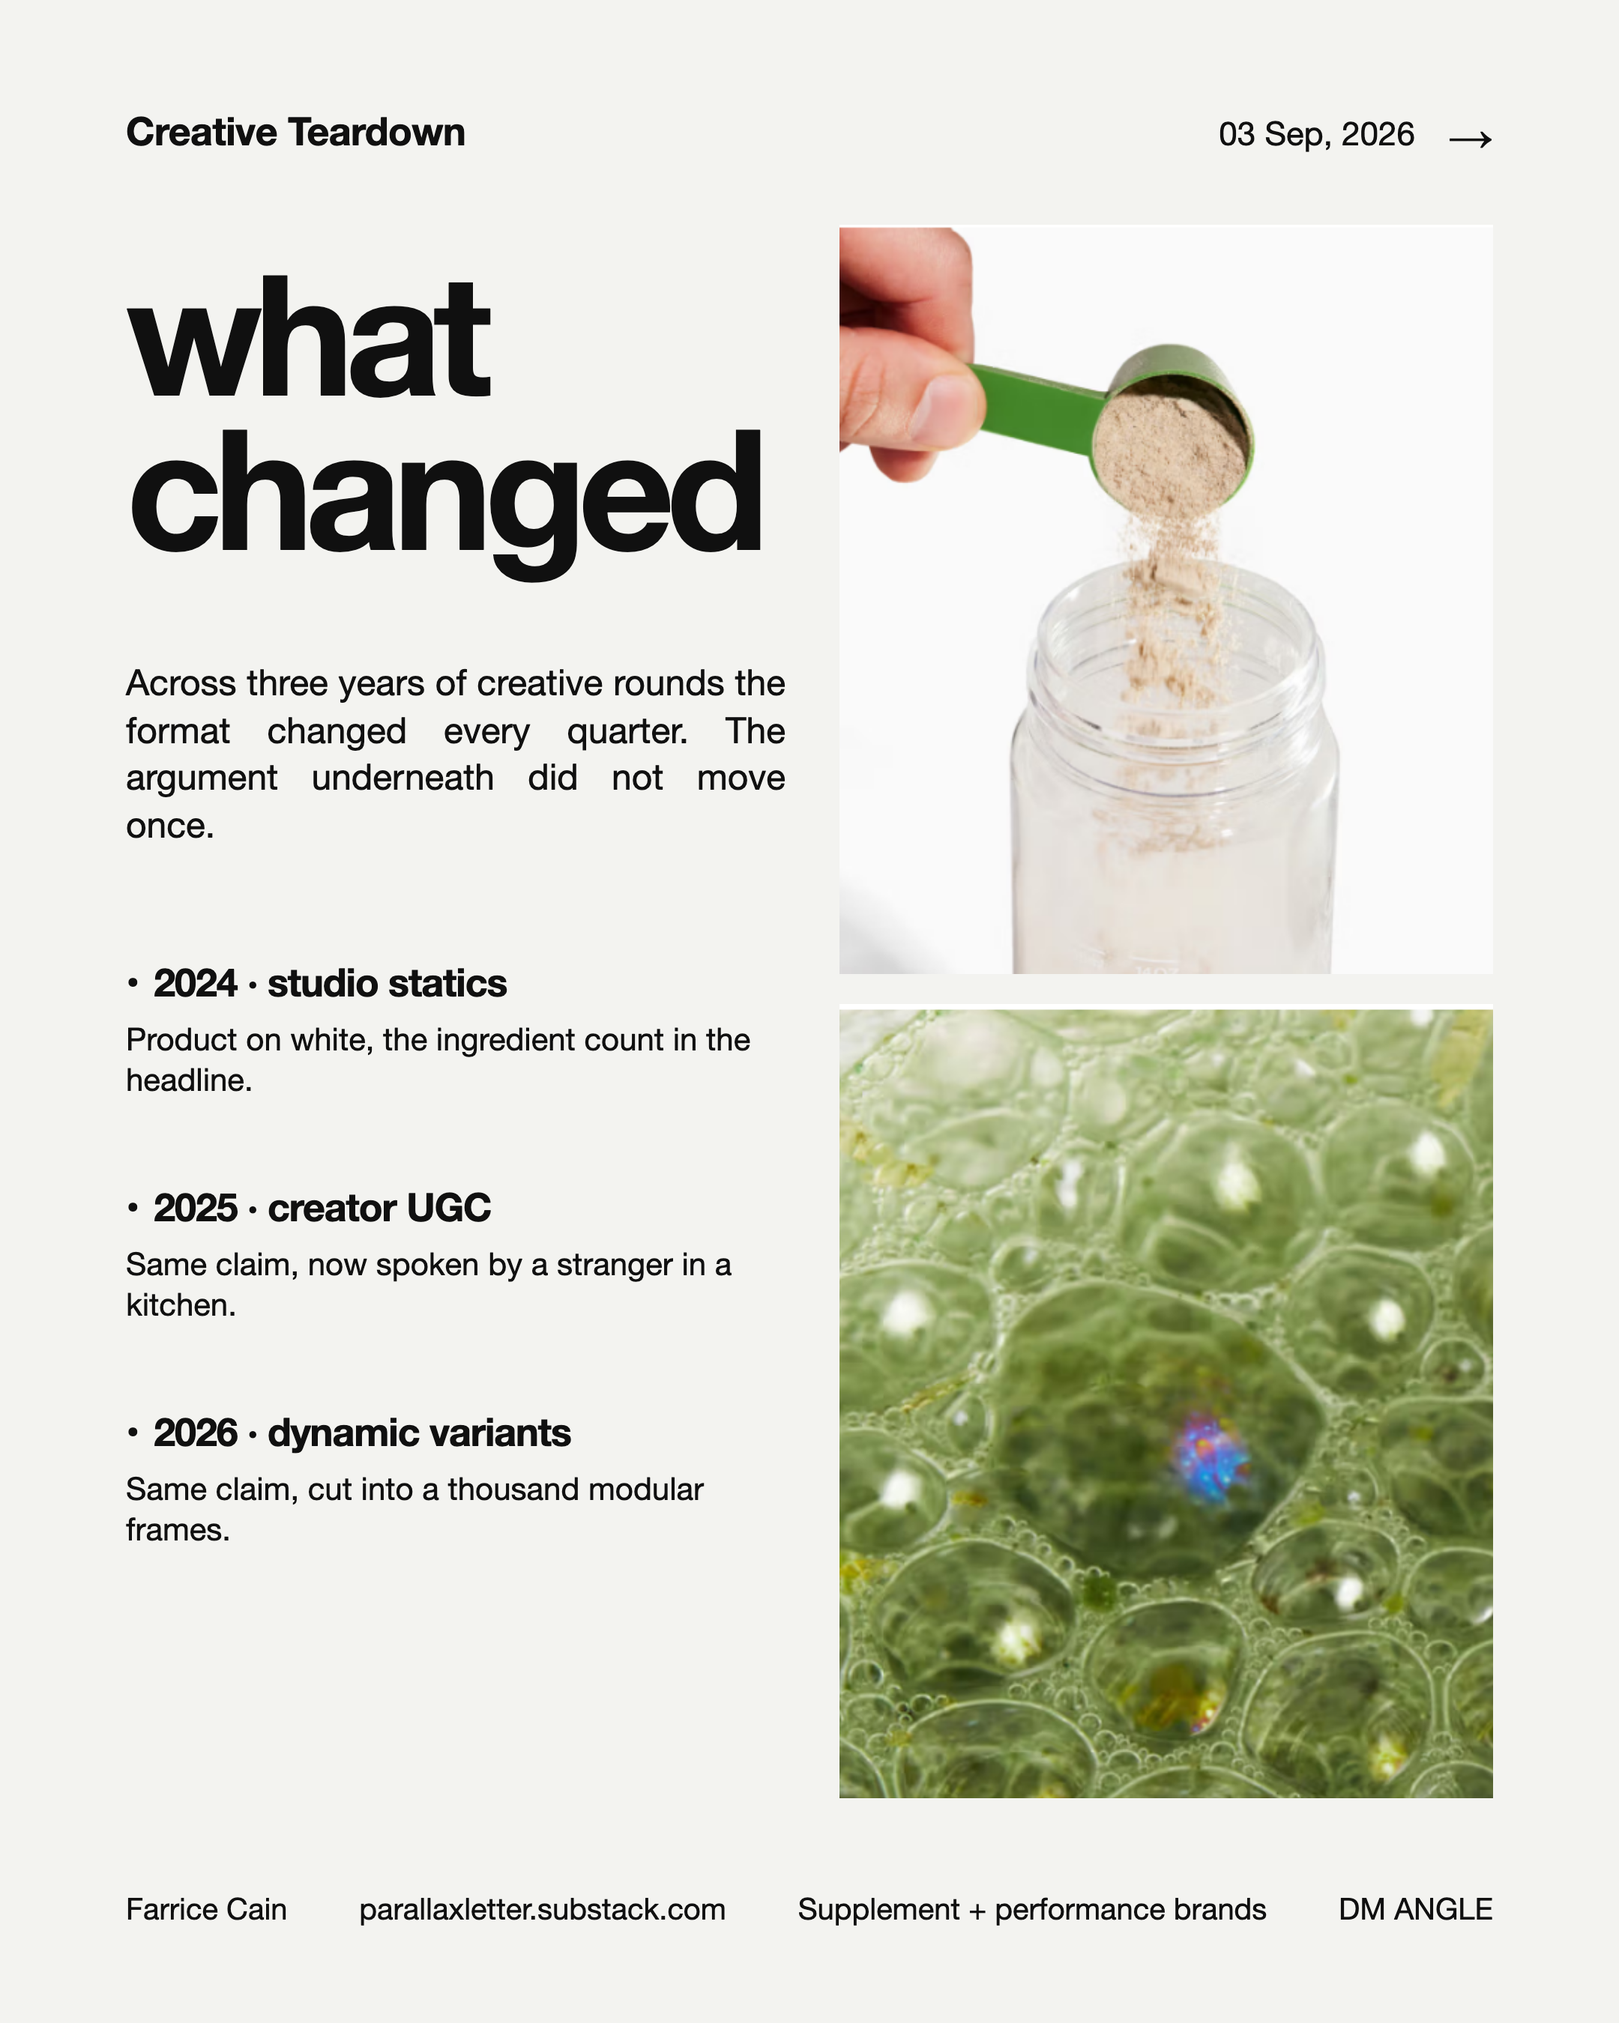
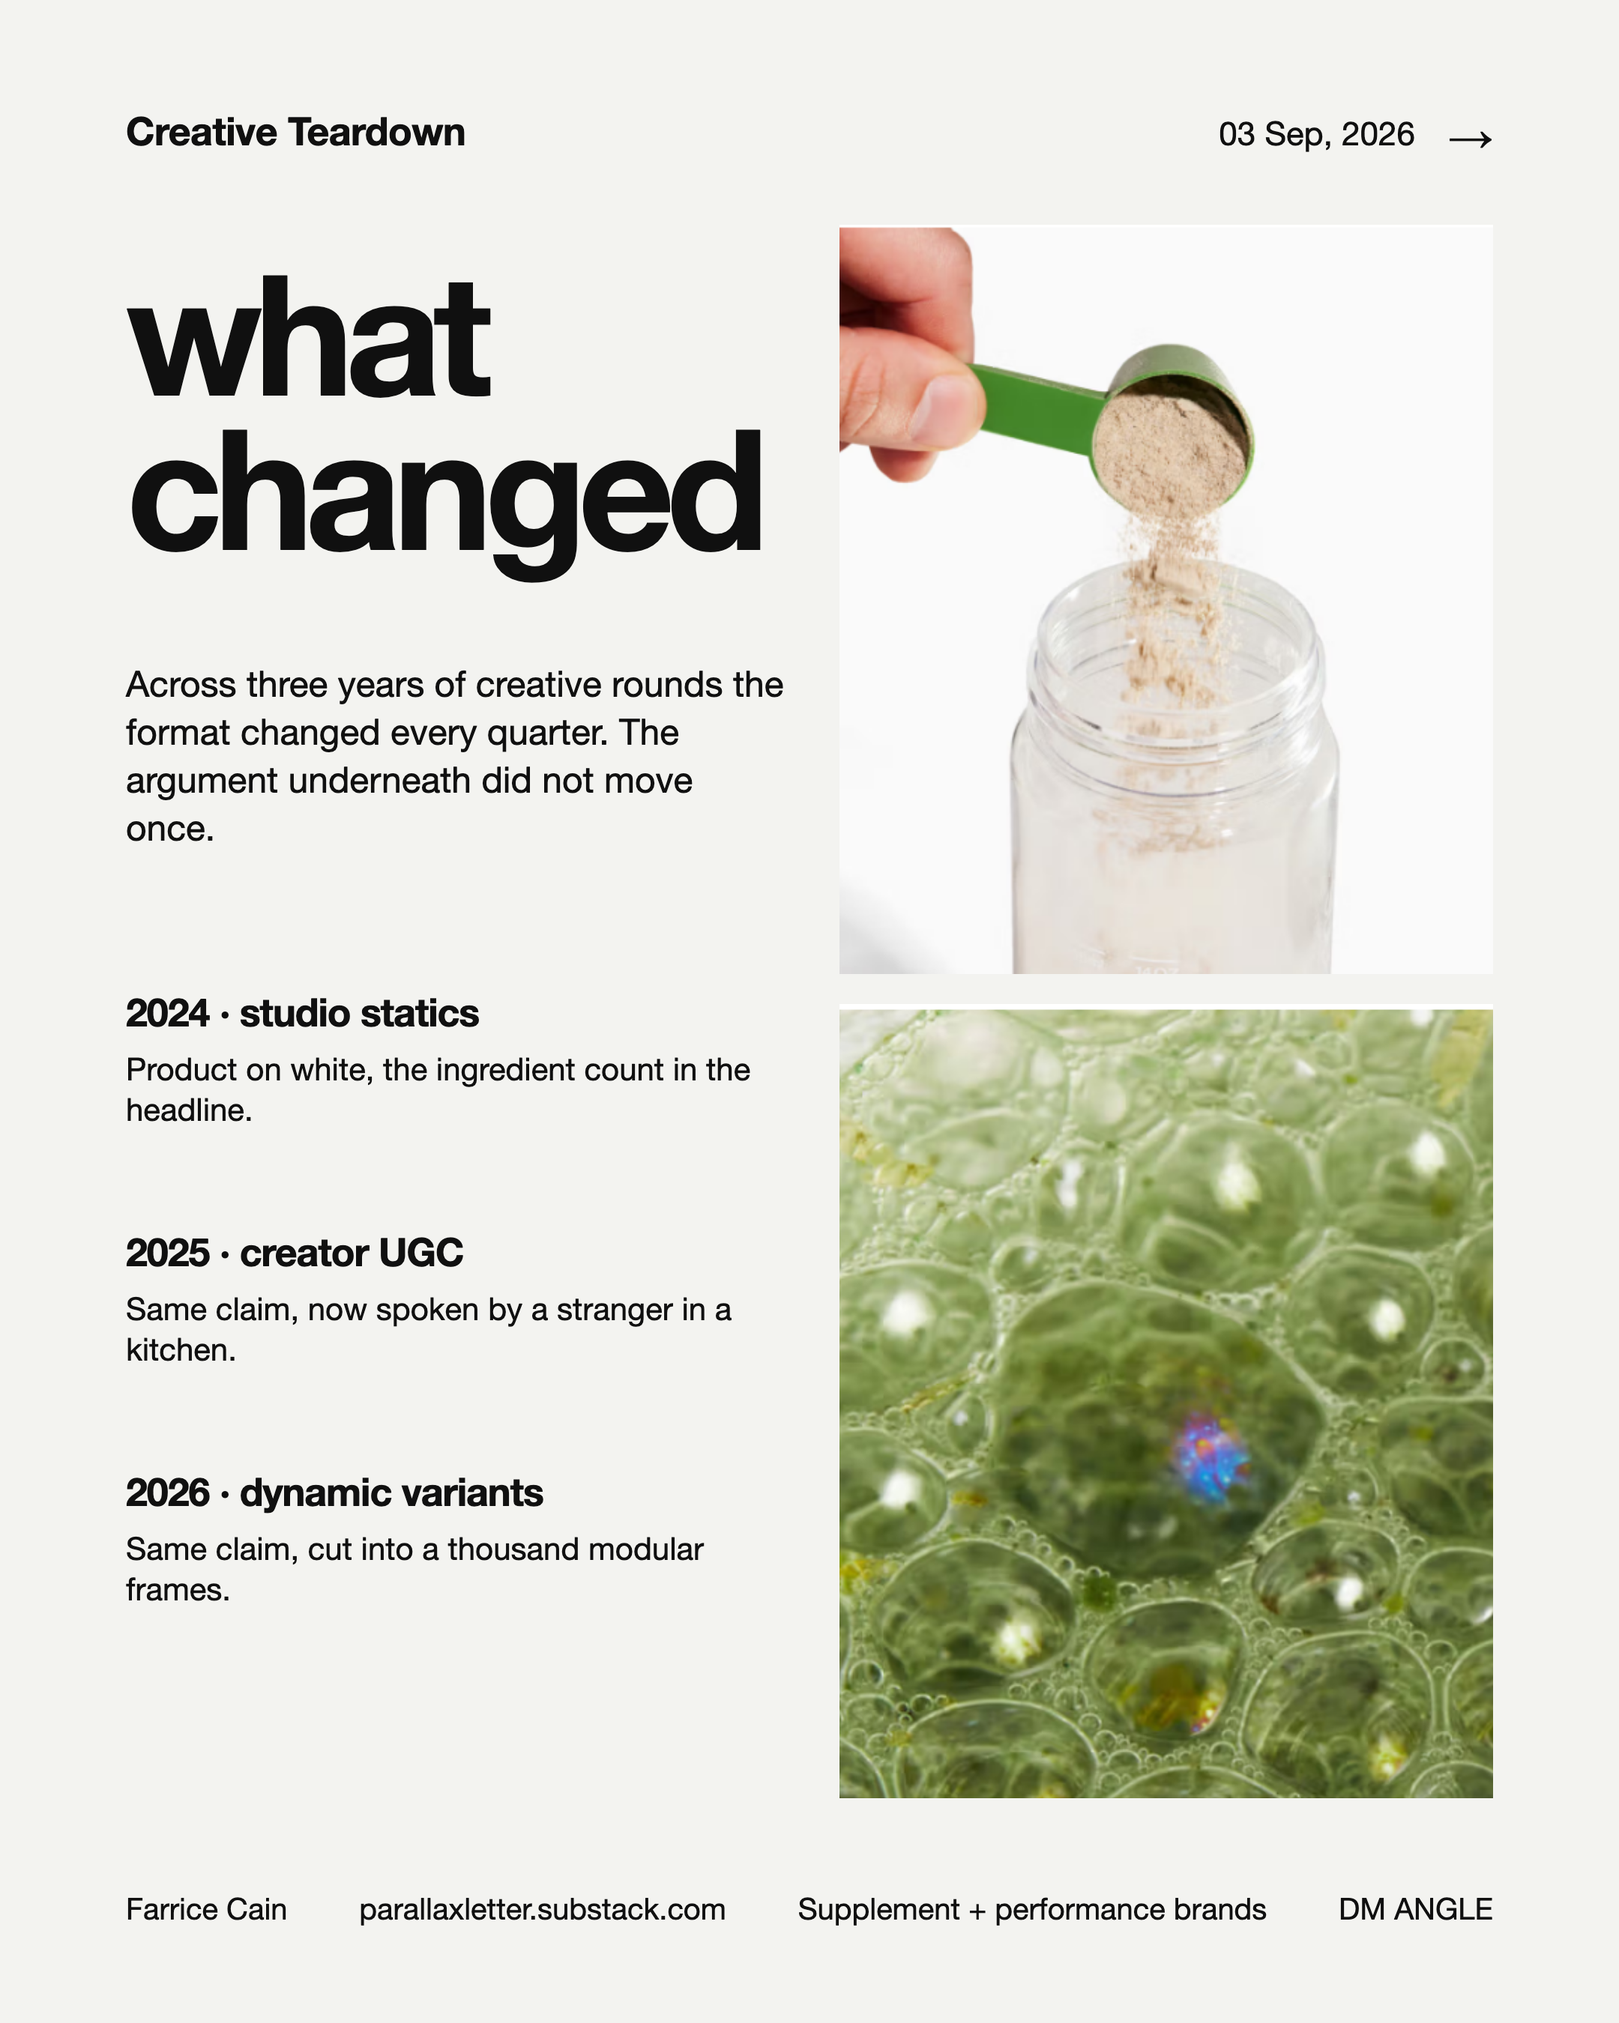
craft(brand): editorial frames composition pass per Farrice — giant words fit the canvas, left-aligned body, spacing and hierarchy tightened

Changed region(s): [[0.062, 0.5911, 0.4653, 0.8089], [0.0931, 0.3111, 0.4963, 0.4356], [0.062, 0.4667, 0.4653, 0.56]]

diff --git a/brand_context/visual-identity/compositions/editorial/frames/03-photo-right-columns.html b/brand_context/visual-identity/compositions/editorial/frames/03-photo-right-columns.html
@@ -5,12 +5,13 @@
 
   <div class="photo" style="left:540px; top:150px; width:456px; height:620px;"><img src="../evidence/huel-greens/crop-hero.png" alt="" style="object-fit: contain; background:#FAFAF8;"></div>
 
-  <div class="h" style="position:absolute; left:84px; top:560px; font-size:118px; width:440px; letter-spacing:-0.05em;">the claim</div>
-  <p class="body" style="position:absolute; left:84px; top:812px; width:912px;">Seventy-five vitamins, minerals and whole-food sourced ingredients. One scoop. Foundational nutrition. Three phrases have carried the brand for a decade, and the creative team keeps re-lighting them.</p>
+  <div class="h" style="position:absolute; left:84px; top:540px; font-size:118px; width:440px; letter-spacing:-0.05em;">the<br>claim</div>
+  <p class="body" style="position:absolute; left:84px; top:808px; width:912px;">Seventy-five vitamins, minerals and whole-food sourced ingredients. One scoop. Foundational nutrition. Three phrases have carried the brand for a decade, and the creative team keeps re-lighting them.</p>
 
-  <div class="item" style="position:absolute; left:84px; top:1010px; width:280px;"><h4>Ingredient truth</h4><p>What the formula can honestly carry, and what it cannot.</p></div>
-  <div class="item" style="position:absolute; left:400px; top:1010px; width:280px;"><h4>Buyer tension</h4><p>The thing the buyer already fears before they read the label.</p></div>
-  <div class="item" style="position:absolute; left:716px; top:1010px; width:280px;"><h4>Proof boundary</h4><p>Where the evidence stops and the adjective begins.</p></div>
+  <div class="rule" style="top:980px;"></div>
+  <div class="item" style="position:absolute; left:84px; top:1010px; width:272px;"><h4>Ingredient truth</h4><p>What the formula can honestly carry, and what it cannot.</p></div>
+  <div class="item" style="position:absolute; left:404px; top:1010px; width:272px;"><h4>Buyer tension</h4><p>The fear the buyer holds before they read the label.</p></div>
+  <div class="item" style="position:absolute; left:724px; top:1010px; width:272px;"><h4>Proof boundary</h4><p>Where the evidence stops and the adjective begins.</p></div>
 
   <div class="m foot"><span>Farrice Cain</span><span>parallaxletter.substack.com</span><span>Supplement + performance brands</span><span>DM ANGLE</span></div>
 </div></body></html>

diff --git a/brand_context/visual-identity/compositions/editorial/frames/02-opener-photo-band.html b/brand_context/visual-identity/compositions/editorial/frames/02-opener-photo-band.html
@@ -3,11 +3,11 @@
 <body><div class="frame">
   <div class="m head"><span class="title">Creative Teardown</span><span class="date">03 Sep, 2026 <span class="arrow">→</span></span></div>
 
-  <div class="h" style="position:absolute; left:84px; top:150px; font-size:150px; letter-spacing:-0.055em;">what they run</div>
-  <p class="body" style="position:absolute; left:84px; top:350px; width:912px;">Eighty-seven percent of the active ads are dynamic variants of one modular frame. Ten percent are creator testimonials. Three percent are statics. Every one of them repeats the same claim in a new costume.</p>
+  <div class="h" style="position:absolute; left:84px; top:160px; font-size:144px; letter-spacing:-0.055em;">what they run</div>
+  <p class="body" style="position:absolute; left:84px; top:340px; width:760px;">Eighty-seven percent of the active ads are dynamic variants of one modular frame. Ten percent are creator testimonials. Three percent are statics. Every one repeats the same claim in a new costume.</p>
 
-  <div class="photo" style="left:84px; top:560px; width:912px; height:600px;"><img src="../evidence/ag1-adlibrary/crop-cards.png" alt="" style="object-position: 0 0;"></div>
-  <div class="label" style="position:absolute; left:84px; top:1178px; color:#8C8C82;">Source · Meta Ad Library, "AG1", active ads, captured 03 Sep 2026</div>
+  <div class="photo" style="left:84px; top:520px; width:912px; height:600px;"><img src="../evidence/ag1-adlibrary/crop-cards.png" alt="" style="object-position: 0 0;"></div>
+  <div class="label" style="position:absolute; left:84px; top:1146px; color:#8C8C82;">Source · Meta Ad Library, "AG1", active ads, 03 Sep 2026</div>
 
   <div class="m foot"><span>Farrice Cain</span><span>parallaxletter.substack.com</span><span>Supplement + performance brands</span><span>DM ANGLE</span></div>
 </div></body></html>

diff --git a/brand_context/visual-identity/compositions/editorial/frames/05-two-photo-stack.html b/brand_context/visual-identity/compositions/editorial/frames/05-two-photo-stack.html
@@ -6,9 +6,9 @@
   <div class="h" style="position:absolute; left:84px; top:170px; font-size:112px; width:480px; letter-spacing:-0.05em;">what<br>changed</div>
   <p class="body" style="position:absolute; left:84px; top:440px; width:440px; font-size:24px;">Across three years of creative rounds the format changed every quarter. The argument underneath did not move once.</p>
 
-  <div class="item" style="position:absolute; left:84px; top:640px; width:440px;"><h4 class="bullet">2024 · studio statics</h4><p>Product on white, the ingredient count in the headline.</p></div>
-  <div class="item" style="position:absolute; left:84px; top:790px; width:440px;"><h4 class="bullet">2025 · creator UGC</h4><p>Same claim, now spoken by a stranger in a kitchen.</p></div>
-  <div class="item" style="position:absolute; left:84px; top:940px; width:440px;"><h4 class="bullet">2026 · dynamic variants</h4><p>Same claim, cut into a thousand modular frames.</p></div>
+  <div class="item" style="position:absolute; left:84px; top:660px; width:440px;"><h4>2024 · studio statics</h4><p>Product on white, the ingredient count in the headline.</p></div>
+  <div class="item" style="position:absolute; left:84px; top:820px; width:440px;"><h4>2025 · creator UGC</h4><p>Same claim, now spoken by a stranger in a kitchen.</p></div>
+  <div class="item" style="position:absolute; left:84px; top:980px; width:440px;"><h4>2026 · dynamic variants</h4><p>Same claim, cut into a thousand modular frames.</p></div>
 
   <div class="photo" style="left:560px; top:150px; width:436px; height:500px;"><img src="../evidence/huel-greens/crop-scoop.png" alt=""></div>
   <div class="photo" style="left:560px; top:670px; width:436px; height:530px;"><img src="../evidence/huel-greens/crop-bubbles.png" alt=""></div>

diff --git a/brand_context/visual-identity/compositions/editorial/frames/04-photo-left-list.html b/brand_context/visual-identity/compositions/editorial/frames/04-photo-left-list.html
@@ -8,9 +8,9 @@
   <div class="h" style="position:absolute; left:560px; top:170px; font-size:112px; width:440px; letter-spacing:-0.05em;">three<br>angles</div>
   <p class="body grey" style="position:absolute; left:560px; top:430px; width:436px; font-size:24px;">The same product can argue three different things. Only one of them is worth funding first.</p>
 
-  <div class="item" style="position:absolute; left:560px; top:600px; width:436px;"><h4 class="bullet">Ingredient</h4><p>Seventy-five things in one scoop. The claim they already own and everyone else copies.</p></div>
-  <div class="item" style="position:absolute; left:560px; top:770px; width:436px;"><h4 class="bullet">Outcome</h4><p>What a person feels by week three. Honest, specific, and almost never in the ads.</p></div>
-  <div class="item" style="position:absolute; left:560px; top:940px; width:436px;"><h4 class="bullet">Ritual</h4><p>The morning glass. The format is the argument, and nobody has led with it.</p></div>
+  <div class="item" style="position:absolute; left:560px; top:620px; width:436px;"><h4>Ingredient</h4><p>Seventy-five things in one scoop. The claim they already own and everyone else copies.</p></div>
+  <div class="item" style="position:absolute; left:560px; top:790px; width:436px;"><h4>Outcome</h4><p>What a person feels by week three. Honest, specific, and almost never in the ads.</p></div>
+  <div class="item" style="position:absolute; left:560px; top:960px; width:436px;"><h4>Ritual</h4><p>The morning glass. The format is the argument, and nobody has led with it.</p></div>
 
   <div class="m foot"><span>Farrice Cain</span><span>parallaxletter.substack.com</span><span>Supplement + performance brands</span><span>DM ANGLE</span></div>
 </div></body></html>

diff --git a/brand_context/visual-identity/compositions/editorial/frames/07-portrait-close.html b/brand_context/visual-identity/compositions/editorial/frames/07-portrait-close.html
@@ -6,9 +6,9 @@
   <!-- original portrait (move 9): real, unaltered, occasional -->
   <div class="photo" style="left:84px; top:150px; width:912px; height:560px;"><img src="../../../../../_active/farrice-brand/farrice-creative-strategist-portfolio/assets/farrice-studio.jpg" alt="" style="object-position: 50% 30%;"></div>
 
-  <div class="h" style="position:absolute; left:84px; top:760px; font-size:92px; width:912px; letter-spacing:-0.055em; line-height:0.94;">choose the argument<br>before you multiply it.</div>
-  <p class="body grey" style="position:absolute; left:84px; top:1020px; width:560px; font-size:24px; text-align:left;">Three campaign angles, one lead recommendation, before the next creative round. That is the whole job.</p>
-  <div class="label" style="position:absolute; left:760px; top:1030px; color:#101010; font-size:26px; letter-spacing:0.12em;">DM ANGLE</div>
+  <div class="h" style="position:absolute; left:84px; top:770px; font-size:92px; width:912px; letter-spacing:-0.055em; line-height:0.94;">choose the argument<br>before you multiply it.</div>
+  <p class="body grey" style="position:absolute; left:84px; top:1010px; width:600px; font-size:24px;">Three campaign angles, one lead recommendation, before the next creative round. That is the whole job.</p>
+  <div class="label" style="position:absolute; right:84px; top:1016px; color:#101010; font-size:24px; letter-spacing:0.16em;">DM ANGLE →</div>
 
   <div class="m foot"><span>Farrice Cain</span><span>parallaxletter.substack.com</span><span>Supplement + performance brands</span><span>DM ANGLE</span></div>
 </div></body></html>

diff --git a/brand_context/visual-identity/compositions/editorial/frames/06-evidence-crop.html b/brand_context/visual-identity/compositions/editorial/frames/06-evidence-crop.html
@@ -9,8 +9,8 @@
   <div class="rule" style="top:711px;"></div>
   <div class="label" style="position:absolute; left:84px; top:728px; color:#8C8C82;">Evidence · huel.com, Daily Greens product page, 03 Sep 2026</div>
 
-  <div class="h" style="position:absolute; left:84px; top:830px; font-size:104px; width:600px; letter-spacing:-0.05em;">the miss</div>
-  <p class="body grey" style="position:absolute; left:660px; top:842px; width:336px; font-size:22px;">A ten-year claim about ingredient count, when the buyer's fear is about whether they will still be drinking it in March. The adjective got funded. The argument did not.</p>
+  <div class="h" style="position:absolute; left:84px; top:820px; font-size:112px; width:480px; letter-spacing:-0.05em;">the miss</div>
+  <p class="body" style="position:absolute; left:84px; top:960px; width:760px; font-size:26px;">A ten-year claim about ingredient count, when the buyer's fear is whether they will still be drinking it in March. The adjective got funded. The argument did not.</p>
 
   <div class="m foot"><span>Farrice Cain</span><span>parallaxletter.substack.com</span><span>Supplement + performance brands</span><span>DM ANGLE</span></div>
 </div></body></html>

diff --git a/brand_context/visual-identity/compositions/editorial/frames/01-cover-signature.html b/brand_context/visual-identity/compositions/editorial/frames/01-cover-signature.html
@@ -4,8 +4,8 @@
   <div class="m head"><span class="title">Creative Teardown</span><span class="date">03 Sep, 2026 <span class="arrow">→</span></span></div>
 
   <!-- giant lowercase word, bleeding past the margins like the reference; signature crosses it -->
-  <div class="giant" style="position:absolute; left:-2px; top:440px; font-size:244px; width:1100px; letter-spacing:-0.065em;">teardown</div>
-  <div class="sig" style="left:240px; top:520px; font-size:118px;">Farrice Cain</div>
+  <div class="giant fit" style="position:absolute; top:470px; font-size:214px; letter-spacing:-0.065em;">teardown</div>
+  <div class="sig" style="left:250px; top:540px; font-size:112px;">Farrice Cain</div>
 
   <div class="m foot"><span>Farrice Cain</span><span>parallaxletter.substack.com</span><span>Supplement + performance brands</span><span>DM ANGLE</span></div>
 </div></body></html>

diff --git a/brand_context/visual-identity/compositions/editorial/frames/08-thanks-signature.html b/brand_context/visual-identity/compositions/editorial/frames/08-thanks-signature.html
@@ -3,8 +3,8 @@
 <body><div class="frame">
   <div class="m head"><span class="title">Creative Teardown</span><span class="date">03 Sep, 2026 <span class="arrow">→</span></span></div>
 
-  <div class="giant" style="position:absolute; left:-4px; top:470px; font-size:236px; width:1100px; letter-spacing:-0.06em; line-height:0.86;">dm angle</div>
-  <div class="sig" style="left:300px; top:560px; font-size:118px;">Farrice Cain</div>
+  <div class="giant fit" style="position:absolute; top:480px; font-size:214px; letter-spacing:-0.065em;">dm angle</div>
+  <div class="sig" style="left:290px; top:552px; font-size:112px;">Farrice Cain</div>
 
   <div class="m foot"><span>Farrice Cain</span><span>parallaxletter.substack.com</span><span>Supplement + performance brands</span><span>DM ANGLE</span></div>
 </div></body></html>

diff --git a/brand_context/visual-identity/compositions/editorial/frames/_editorial.css b/brand_context/visual-identity/compositions/editorial/frames/_editorial.css
@@ -18,7 +18,9 @@ html, body { width: 1080px; height: 1350px; background: #F3F3F0; }
 /* type */
 .giant { font-weight: 700; letter-spacing: -0.05em; line-height: 0.86; }
 .h { font-weight: 700; letter-spacing: -0.04em; line-height: 0.92; }
-.body { font-weight: 400; font-size: 26px; line-height: 1.32; color: #101010; text-align: justify; }
+.body { font-weight: 400; font-size: 26px; line-height: 1.34; color: #101010; text-align: left; }
+/* giant words: fit the canvas width exactly, never clip — the bleed is the word touching both margins */
+.giant.fit { left: 0; width: 1080px; text-align: center; }
 .body.grey { color: #555553; }
 .item h4 { font-weight: 700; font-size: 26px; margin-bottom: 8px; letter-spacing: -0.02em; }
 .item p { font-weight: 400; font-size: 21px; line-height: 1.3; color: #101010; }
